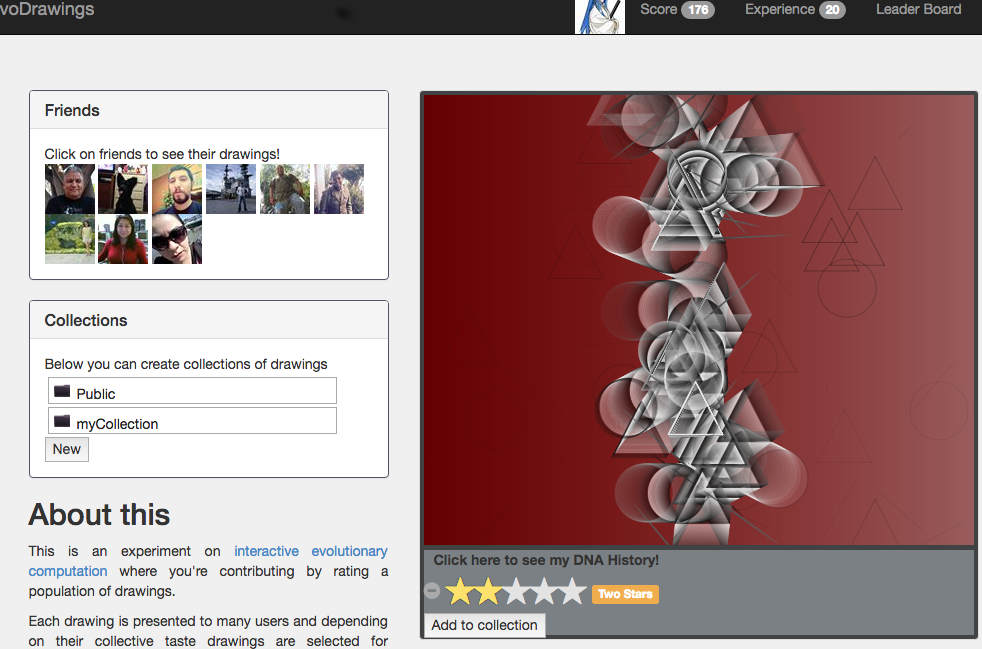
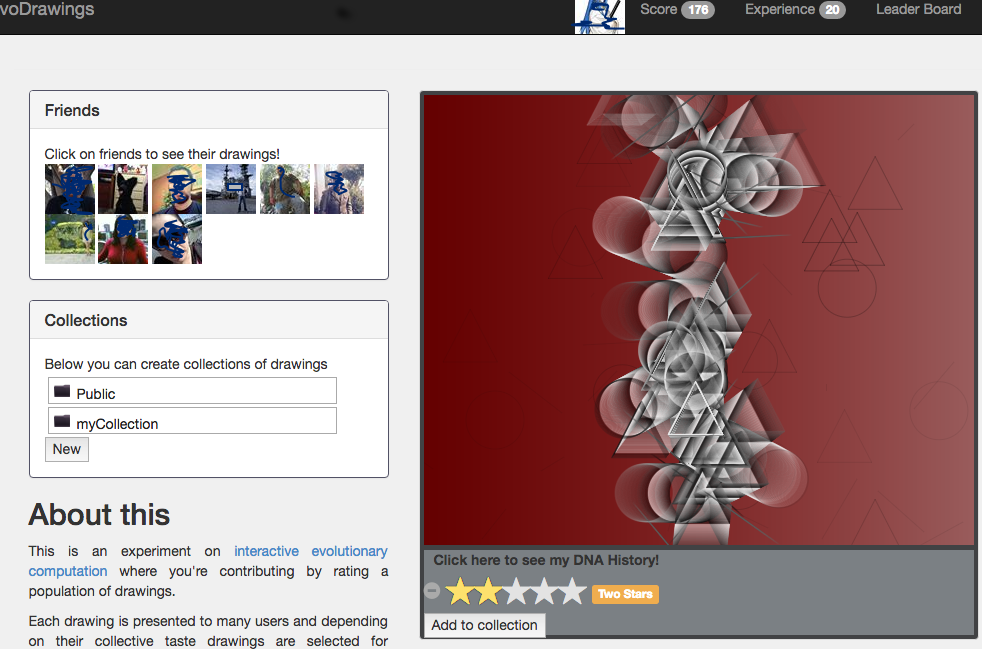
Anonimized figures

diff --git a/2017-GECCO-Modeling-User-Interactions-in-IEC/paper-body.tex b/2017-GECCO-Modeling-User-Interactions-in-IEC/paper-body.tex
@@ -25,7 +25,7 @@ system \cite{eiben2015interactive}.
 They are usually applied in problems where the fitness function is not known or simply
 does not exist, and the result of optimization should fit a certain human need or
 desire such as an aesthetic ideal.  
-That is why their use cases includes the evolution of objects with subjective characteristics
+That is why their use cases include the evolution of objects with subjective characteristics
 such as visual appeal or attractiveness \cite{biomorphs} as well as others where human behavior is 
 considered, for instance the optimization of teamwork \cite{kosorukoff2002evolutionary}
 or creativity \cite{yu2011cooks}. In the cases when 
@@ -83,23 +83,25 @@ Deterding et al. \cite{deterding2011game} as
 \begin{quote}
   the use of game design elements in non-game contexts.
 \end{quote}  
-The gamification element employed in this case study has been a rewarding mechanism  
+The gamification element employed in this work is a rewarding mechanism  
 \cite{dubois2013understanding}. In general rewards  consist of a reputation system 
 with score points, levels and leader boards. Points are awarded to users in response of 
 the accomplishment of certain activities that need to be encouraged. Levels depend
 on the score and certain features of the game are only available to gamers when 
 they reach a giving level. 
-In this work, a case study is presented. The development of a web based C-IEC application 
+
+The development of a web based C-IEC application 
 for evolving artistic drawings is described to give the reader details about 
 the utilization of the proposed framework. Then, a rewarding mechanism is 
 implemented in the same application to study the changes in participation
 when applying a gamification technique. Finally, an experiment is conducted
-comparing three versions of the application, with, and with out, gamification
-in order to compare the amount of user participation.
+comparing three versions of the application: with out gamification and
+two gamification techniques.
 
 The rest of this paper is organized as follows.
 Section \ref{sec:related} presents related work on the topic 
-of interactive evolution. Then, Section \ref{sec:framework} presents the human centered framework of
+of collaborative interactive evolution. Then, Section \ref{sec:framework} 
+presents the human centered framework
 for C-IEC applications which the main proposal of this work. Implementation details of the data model
 are presented in Section \ref{sec:implementation}. 
 Next the EvoDrawings application case study is presented in
@@ -110,12 +112,11 @@ in Section \ref{sec:conclusions}.
 \section{Related Work}
 \label{sec:related}
 
-An early example of IEC is the Galapagos Project \cite{sims1997interactivity},
+An early example of C-IEC is the Galapagos Project \cite{sims1997interactivity},
 an exhibit in the Tokyo Multimedia Museum (1997--2000) 
 were visitors interacted with images presented in 
 twelve displays by selecting those they found most aesthetically interesting by standing on
-step sensors in front of them, presenting an example of a non web
-C-IEC system. Web based systems were introduced later, with  
+step sensors in front of them. Web based systems were introduced later, with  
 Langdon's system \cite{langdon:2004} which evolved fractal representations of virtual creatures. 
 Similarly, Secretan et al. \cite{picbreeder} and Clune and Lipson \cite{forms} 
 use web-based IEAs to evolve artistic artifacts using a generative encoding.
@@ -167,13 +168,13 @@ representing the interactive process of our C-IEC systems is proposed next.
 \label{sec:framework}
 % You have to clearly express the objectives of the paper from tine
 % introduction. If the objective is to reduce fatigue via social
-% engagement, you have to frame the results that way. 
+% engagement, you have to frame the results that way.
+% Ok, added - Mario 
 The general goal of this research is to develop a human-centered \cite{gasson2003human} 
 software framework that can be used to increase volunteer participation 
 in C-IEC systems. A framework is defined as a reusable architectural design together
 with an implementation \cite{campbell1991choices}, in this case 
 providing generalized components to developers and researchers of C-IEC systems. 
-
 The proposed framework includes components that can be refined to increase
 participation and also to minimize the amount of evaluations needed for the evolutionary 
 process in a given IEC application. Software frameworks often have 
@@ -194,7 +195,6 @@ framework are explained next:
   vulnerable to psychological manipulation, (6) humans are prone to errors,
   especially for reflective tasks.
 \end{quote}  
-
 
 \item {\bf Users are volunteers.} Users donate their computing resources, so they are 
 unaccountable, sometimes they try to game the system. Project owners must actively promote and
@@ -446,7 +446,7 @@ in the graph (number of edges).
 Three versions of EvoDrawings were compared:
 \begin{itemize}
 \item Base (B): All users have the same weight.
-\item Non Graph Gamification (G): Only experience is considered
+\item Non Graph Gamification (G): Only experience is considered.
 \item Graph Gamification (GG): Both experience and participation are considered.
 \end{itemize}
 When gamification was employed, all score values known where presented to users
@@ -587,7 +587,18 @@ values in each case.
 % you tackle boredom? How do you increase engagement? Those are the
 % paper's topics, you can't just drop it here because it's interactive
 % - JJ
-
+\begin{figure}[!t]
+    \centering
+        \includegraphics[width=3.5in]{img/user_known_2.png}
+    \caption{User network view of the Base deployment}
+    \label{fig:B-network}
+\end{figure}
+\begin{figure}[!t]
+    \centering
+        \includegraphics[width=3.5in]{img/user_known_3.png}
+    \caption{User network view of the Graph Gamification deployment}
+    \label{fig:GG-network}
+\end{figure}
 \section{Conclusions}
 \label{sec:conclusions}
 
